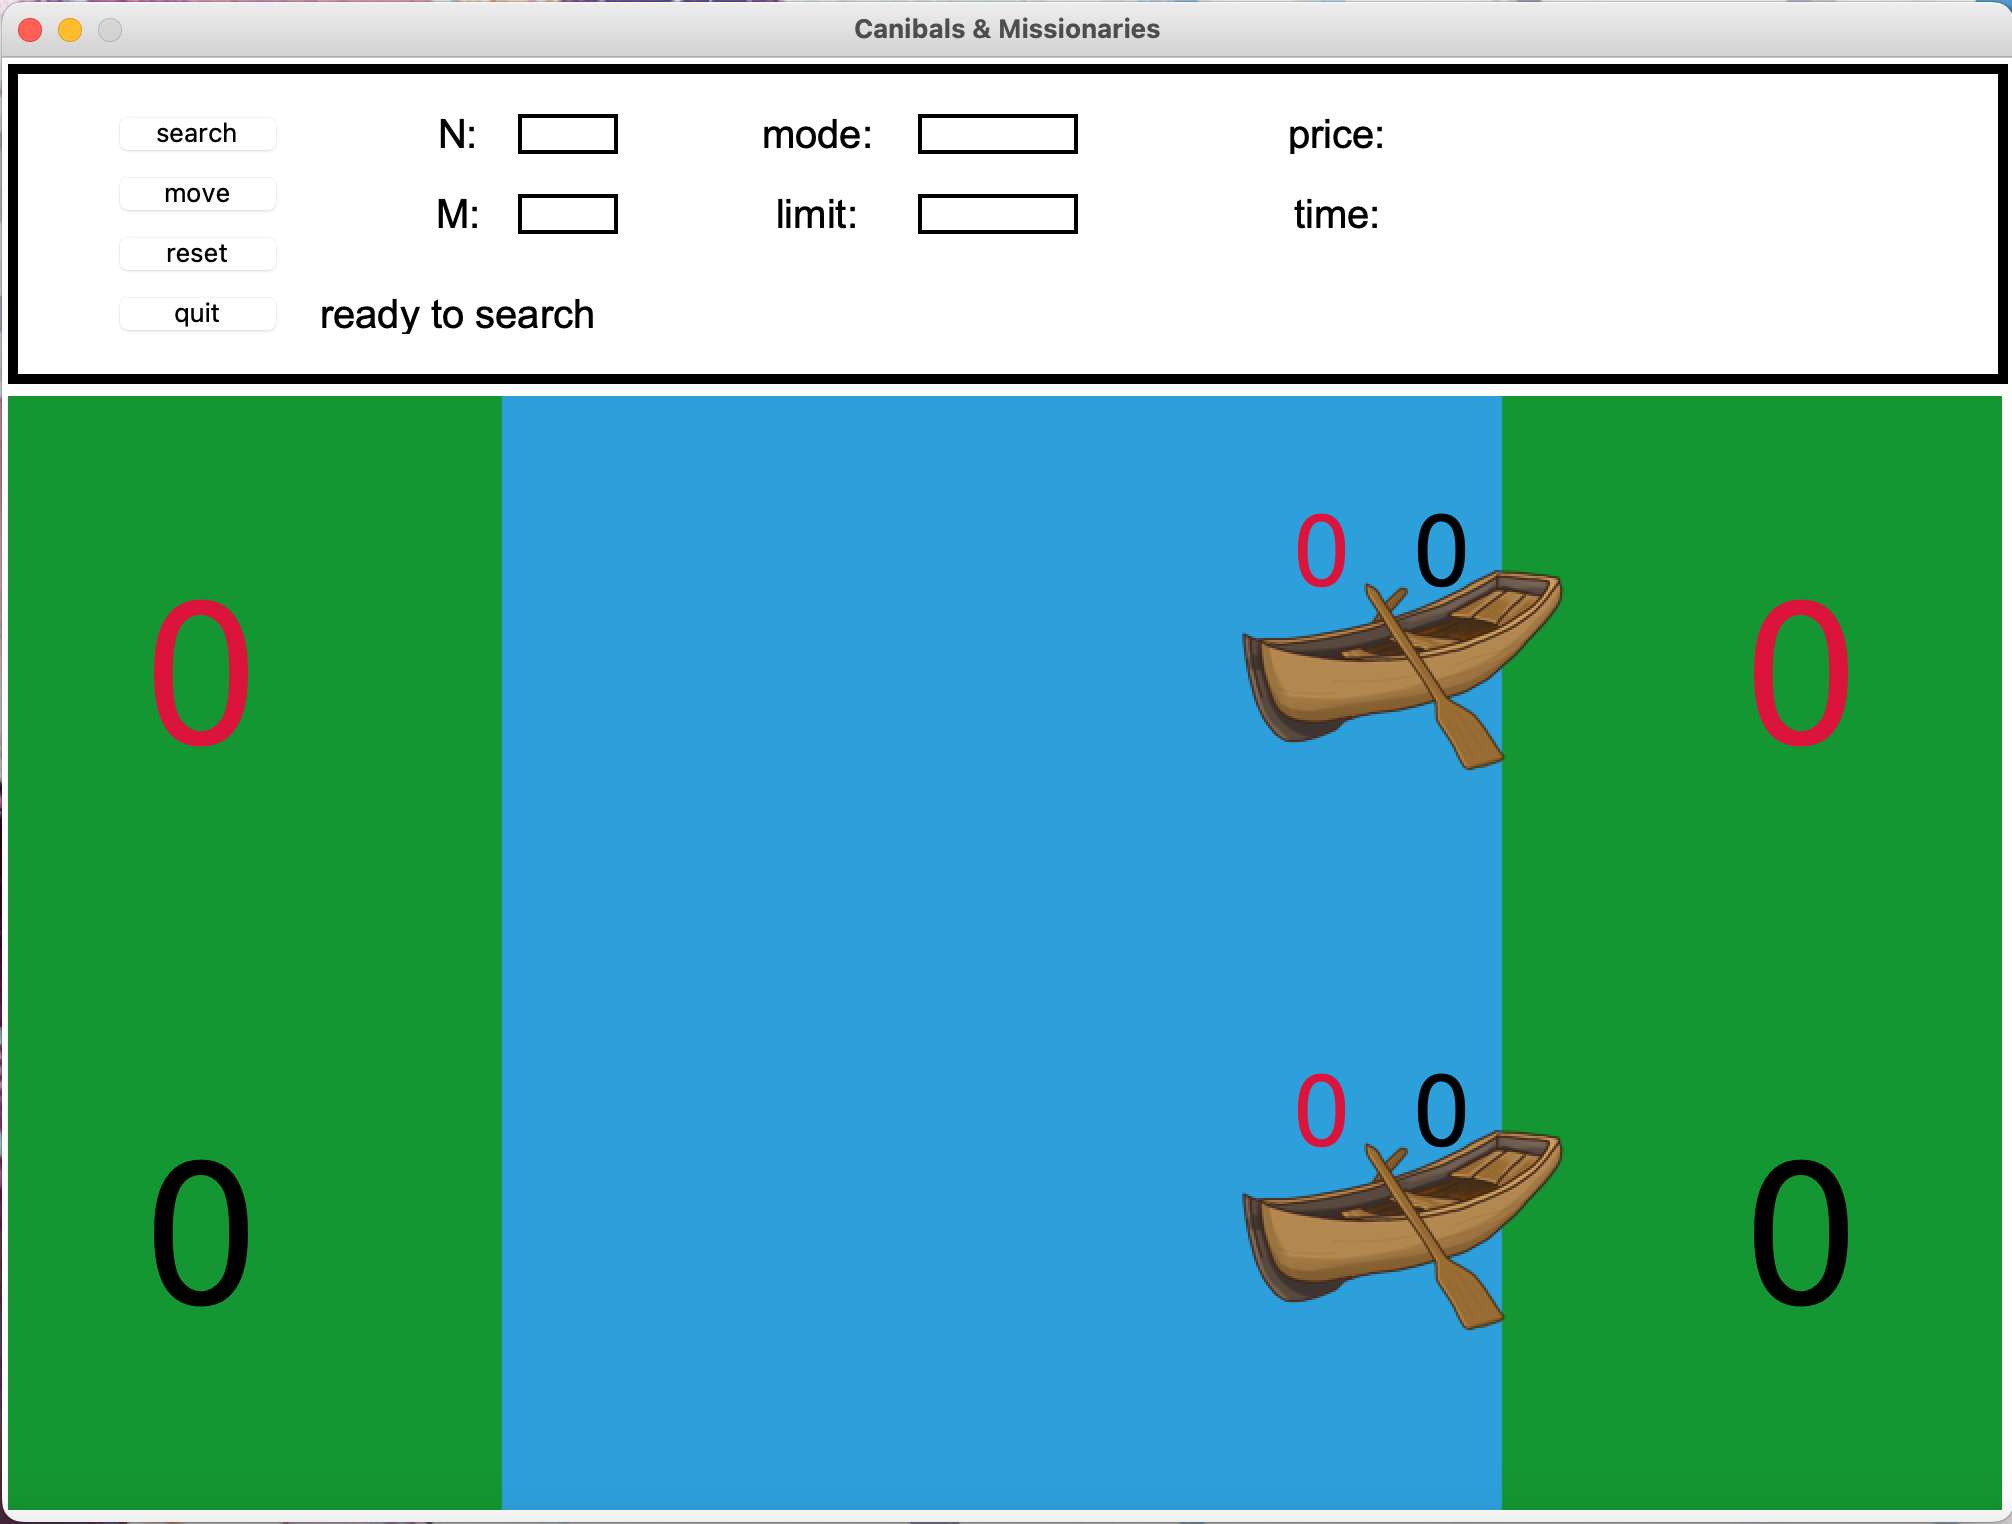
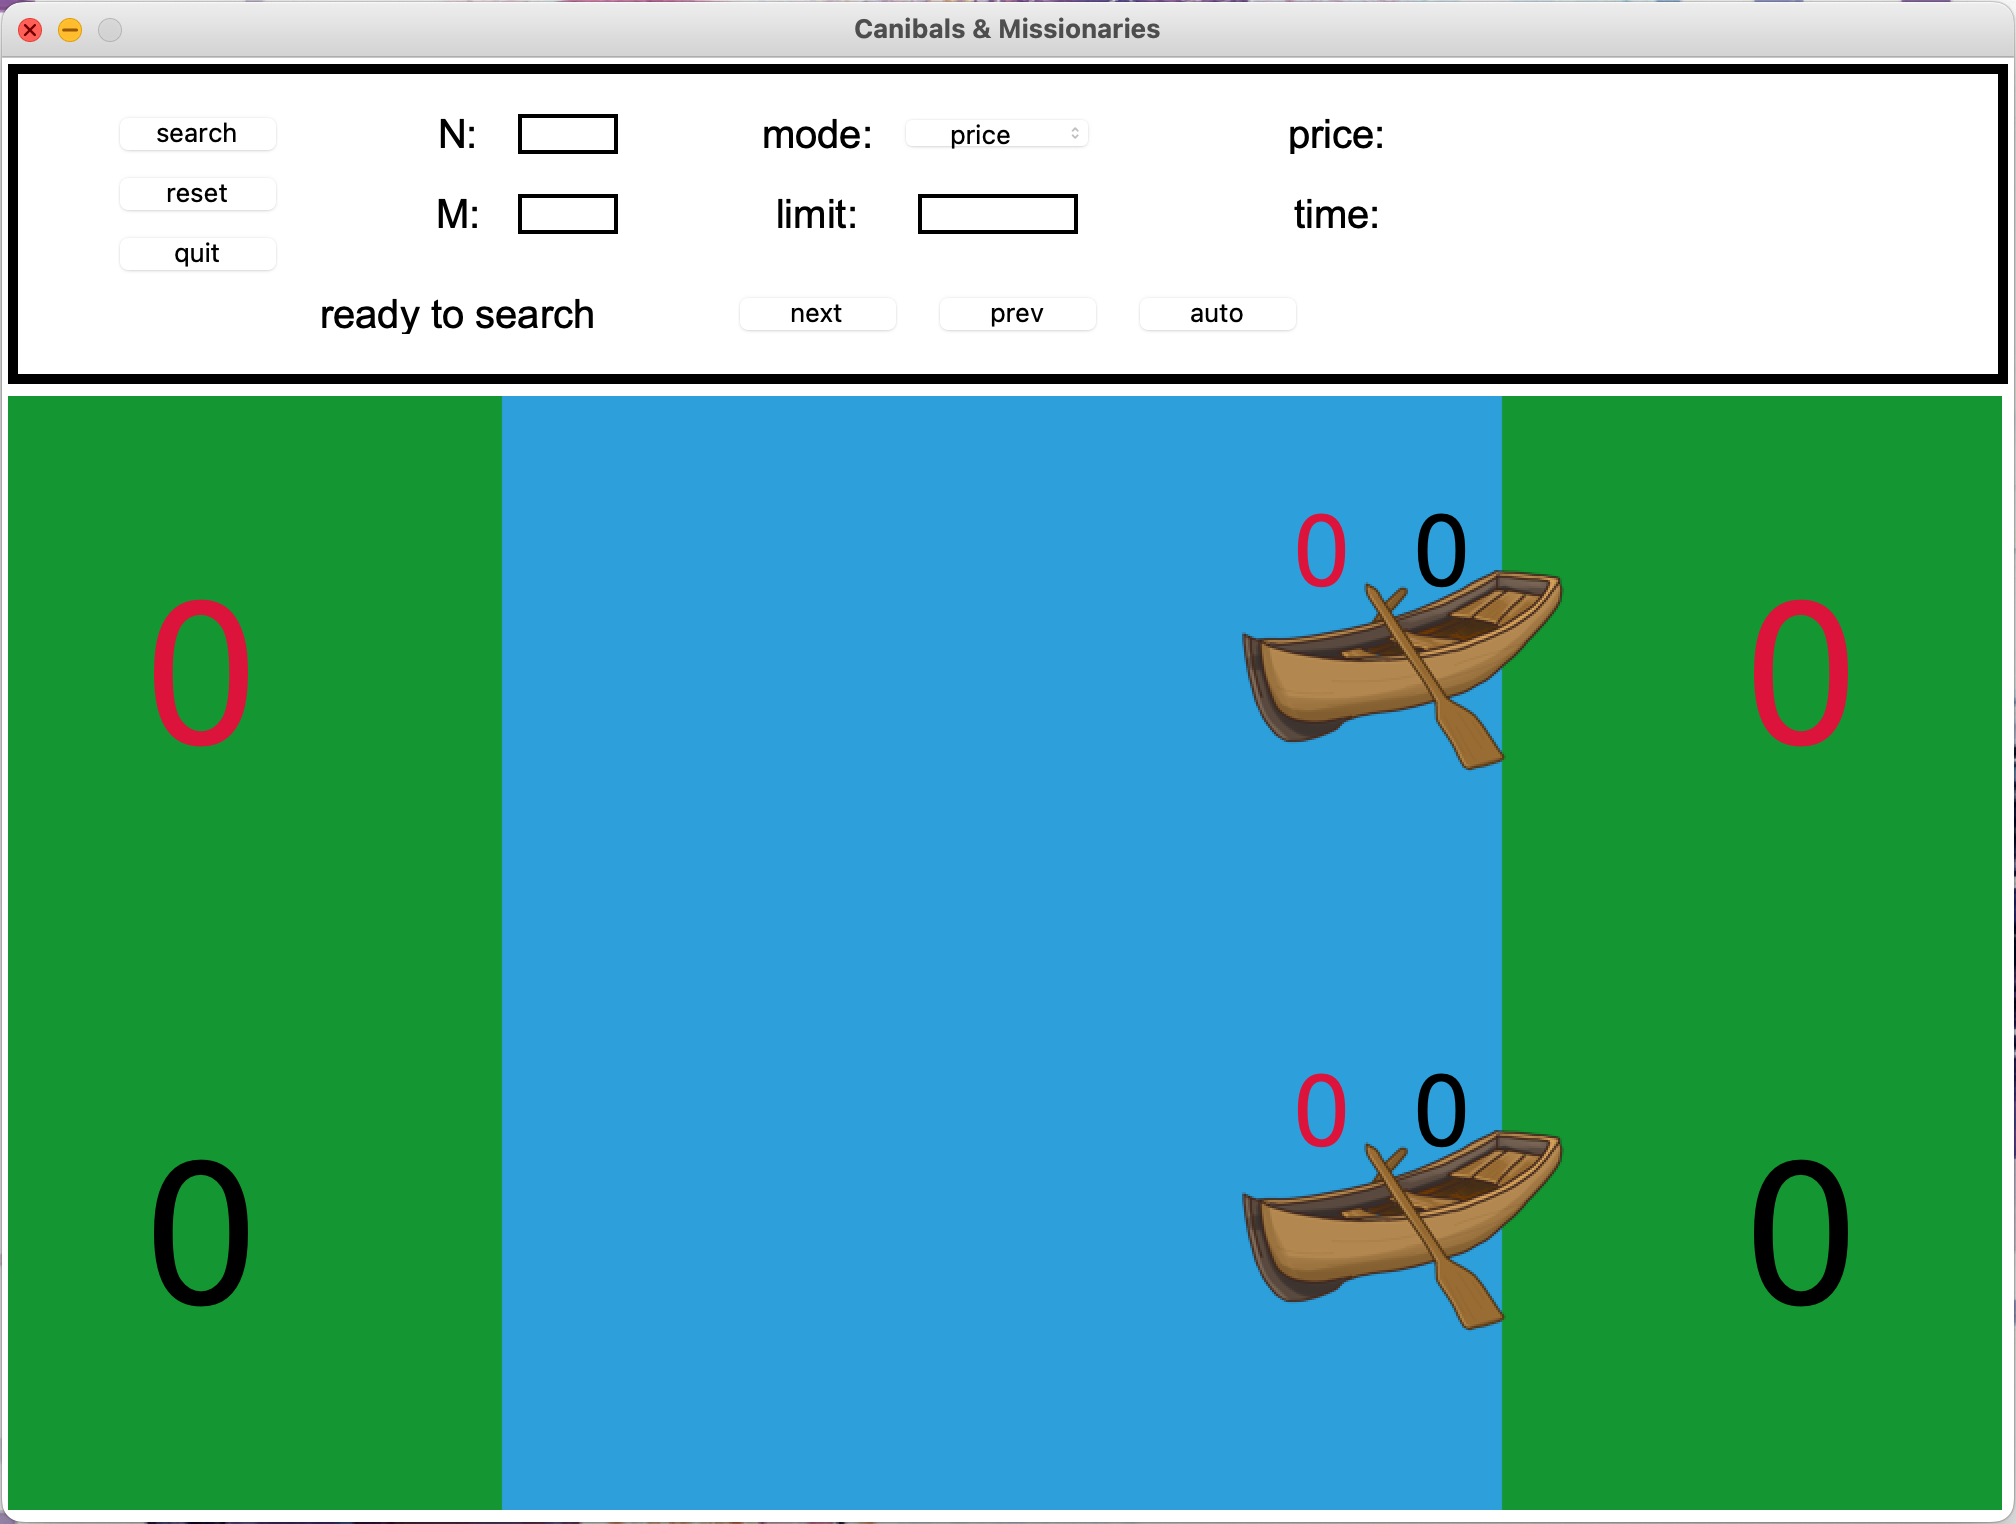
move step by step

diff --git a/GUI/app.py b/GUI/app.py
@@ -31,6 +31,7 @@ class ControlSystem:
         self.lock = False
 
         self.path = None
+        self.current_step = 0
         self.total_time = None
         self.total_price = None
         self.time_list = []
@@ -130,6 +131,7 @@ class ControlSystem:
 
         self.total_price = None
         self.total_time = None
+        self.current_step = 0
 
     def update(self, N, M):
         self.right_cannibals = N
@@ -154,12 +156,17 @@ class App:
         self.state_label = tk.Label(self.root_div1, text = 'ready to search', font = ('Arial', 20), bg = 'white')
         self.search_button = tk.Button(self.root_div1, text = 'search', bg = 'white')
         self.search_button.bind('<Button-1>', self.search)
-        self.move_button = tk.Button(self.root_div1, text = 'move', bg = 'white')
-        self.move_button.bind('<Button-1>', self.move)
         self.reset_button = tk.Button(self.root_div1, text = 'reset', bg = 'white')
         self.reset_button.bind('<Button-1>', self.reset)
         self.quit_button = tk.Button(self.root_div1, text = 'quit', bg = 'white')
         self.quit_button.bind('<Button-1>', self.quit)
+
+        self.nextmove_button = tk.Button(self.root_div1, text = 'next', bg = 'white')
+        self.nextmove_button.bind('<Button-1>', self.nextmove)
+        self.prevmove_button = tk.Button(self.root_div1, text = 'prev', bg = 'white')
+        self.prevmove_button.bind('<Button-1>', self.prevmove)
+        self.automove_button = tk.Button(self.root_div1, text = 'auto', bg = 'white')
+        self.automove_button.bind('<Button-1>', self.automove)
 
         self.N_label = tk.Label(self.root_div1, text = 'N:', font = ('Arial', 20), bg = 'white')
         self.N_input = tk.Text(self.root_div1, width = 3, height = 1, font = ('Arial', 12), bg = 'white', highlightbackground = "black", highlightthickness = 2)
@@ -179,10 +186,13 @@ class App:
 
         # display items in root_div1
         self.search_button.place(x = 50, y = 20, width = 80, height = 20)
-        self.move_button.place(x = 50, y = 50, width = 80, height = 20)
-        self.reset_button.place(x = 50, y = 80, width = 80, height = 20)
-        self.quit_button.place(x = 50, y = 110, width = 80, height = 20)
+        self.reset_button.place(x = 50, y = 50, width = 80, height = 20)
+        self.quit_button.place(x = 50, y = 80, width = 80, height = 20)
         self.state_label.place(x = 120, y = 110, width = 200, height = 20)
+
+        self.nextmove_button.place(x = 360, y = 110, width = 80, height = 20)
+        self.prevmove_button.place(x = 460, y = 110, width = 80, height = 20)
+        self.automove_button.place(x = 560, y = 110, width = 80, height = 20)
 
         self.N_label.place(x = 210, y = 20, width = 20, height = 20)
         self.N_input.place(x = 250, y = 20, width = 50, height = 20)
@@ -317,6 +327,52 @@ class App:
             self.control.total_time = self.control.time_list[i]
             self.update()
             self.move_boats(int(step[0], 16), int(step[1], 16), int(step[2], 16), int(step[3], 16))
+        self.state_label.config(text = 'ready to reset')
+        self.control.ready_to_move = False
+        self.control.ready_to_reset = True
+        self.control.lock = False
+
+    def nextmove(self, event = None):
+        if self.control.lock or not self.control.ready_to_move:
+            return
+        self.control.lock = True
+        self.control.total_price = self.control.price_list[self.control.current_step]
+        self.control.total_time = self.control.time_list[self.control.current_step]
+        self.update()
+        step = self.control.path[self.control.current_step]
+        self.move_boats(int(step[0], 16), int(step[1], 16), int(step[2], 16), int(step[3], 16))
+        self.control.current_step += 1
+        if self.control.current_step == len(self.control.path):
+            self.state_label.config(text = 'ready to reset')
+            self.control.ready_to_move = False
+            self.control.ready_to_reset = True
+        self.control.lock = False
+
+    def prevmove(self, event = None):
+        if self.control.lock or not self.control.ready_to_move:
+            return
+        if self.control.current_step == 0:
+            return
+        self.control.lock = True
+        self.control.current_step -= 1
+        self.control.total_price = self.control.price_list[self.control.current_step]
+        self.control.total_time = self.control.time_list[self.control.current_step]
+        self.update()
+        step = self.control.path[self.control.current_step]
+        self.move_boats(int(step[0], 16), int(step[1], 16), int(step[2], 16), int(step[3], 16))
+        self.control.lock = False
+
+    def automove(self, event = None):
+        if self.control.lock or not self.control.ready_to_move:
+            return
+        self.control.lock = True
+        for i in range(self.control.current_step, len(self.control.path)):
+            self.control.total_price = self.control.price_list[i]
+            self.control.total_time = self.control.time_list[i]
+            self.update()
+            step = self.control.path[i]
+            self.move_boats(int(step[0], 16), int(step[1], 16), int(step[2], 16), int(step[3], 16))
+            self.control.current_step = i
         self.state_label.config(text = 'ready to reset')
         self.control.ready_to_move = False
         self.control.ready_to_reset = True

diff --git a/README.md b/README.md
@@ -48,7 +48,8 @@ optional arguments:
     + limit: limit of cost (time limit if -p, price limit if -t) (default: no limit)
     + mode: price (p for short) or time (t for short)
 2. press `search` button
-3. when label shows `ready to move`, press `move` button
-4. wait for the move to finish
-5. when label shows `ready to reset`, press `reset` button
-6. press `quit` button to quit, or press `search` button to restart
+3. wait until label shows `ready to move`
+4. press `next` button to move, press `prev` button go back to previous step
+5. press `auto` button to finish the game automatically
+6. when label shows `ready to reset`, press `reset` button
+7. press `quit` button to quit, or press `search` button to restart
